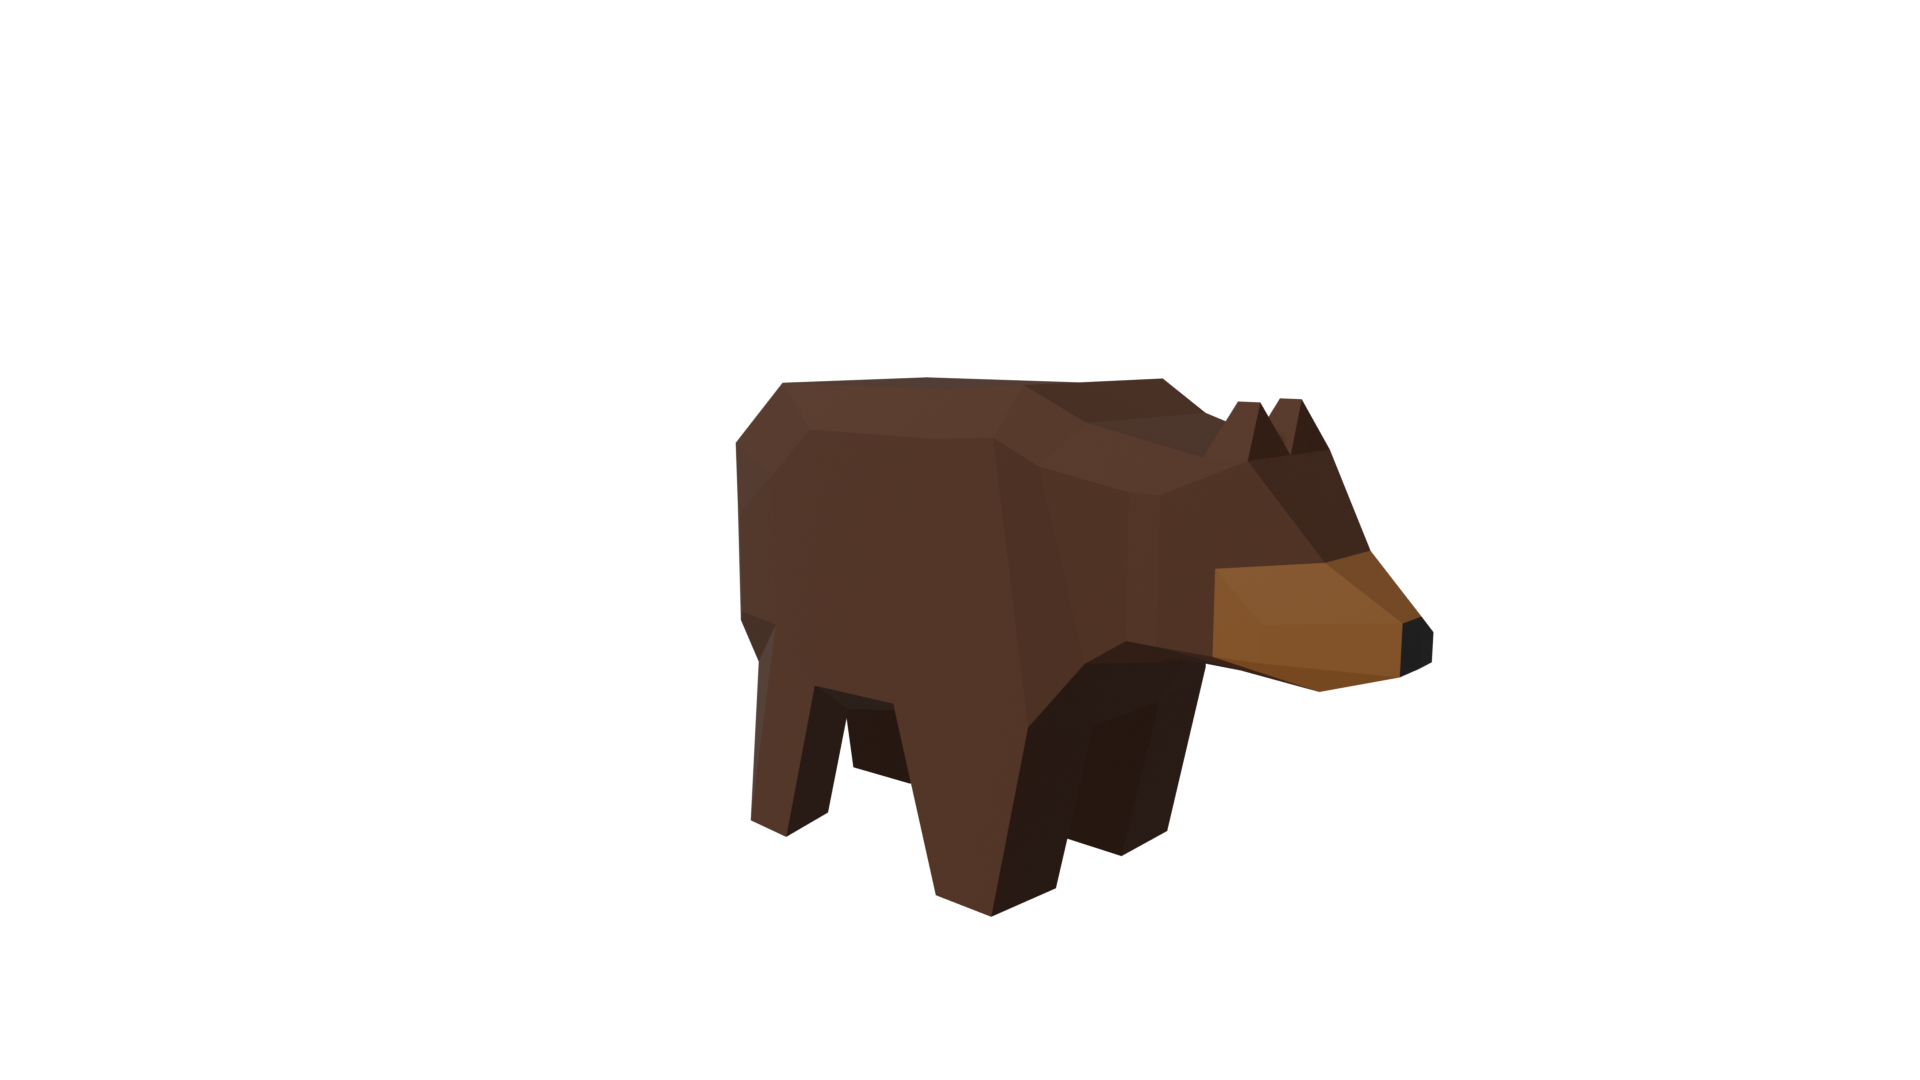
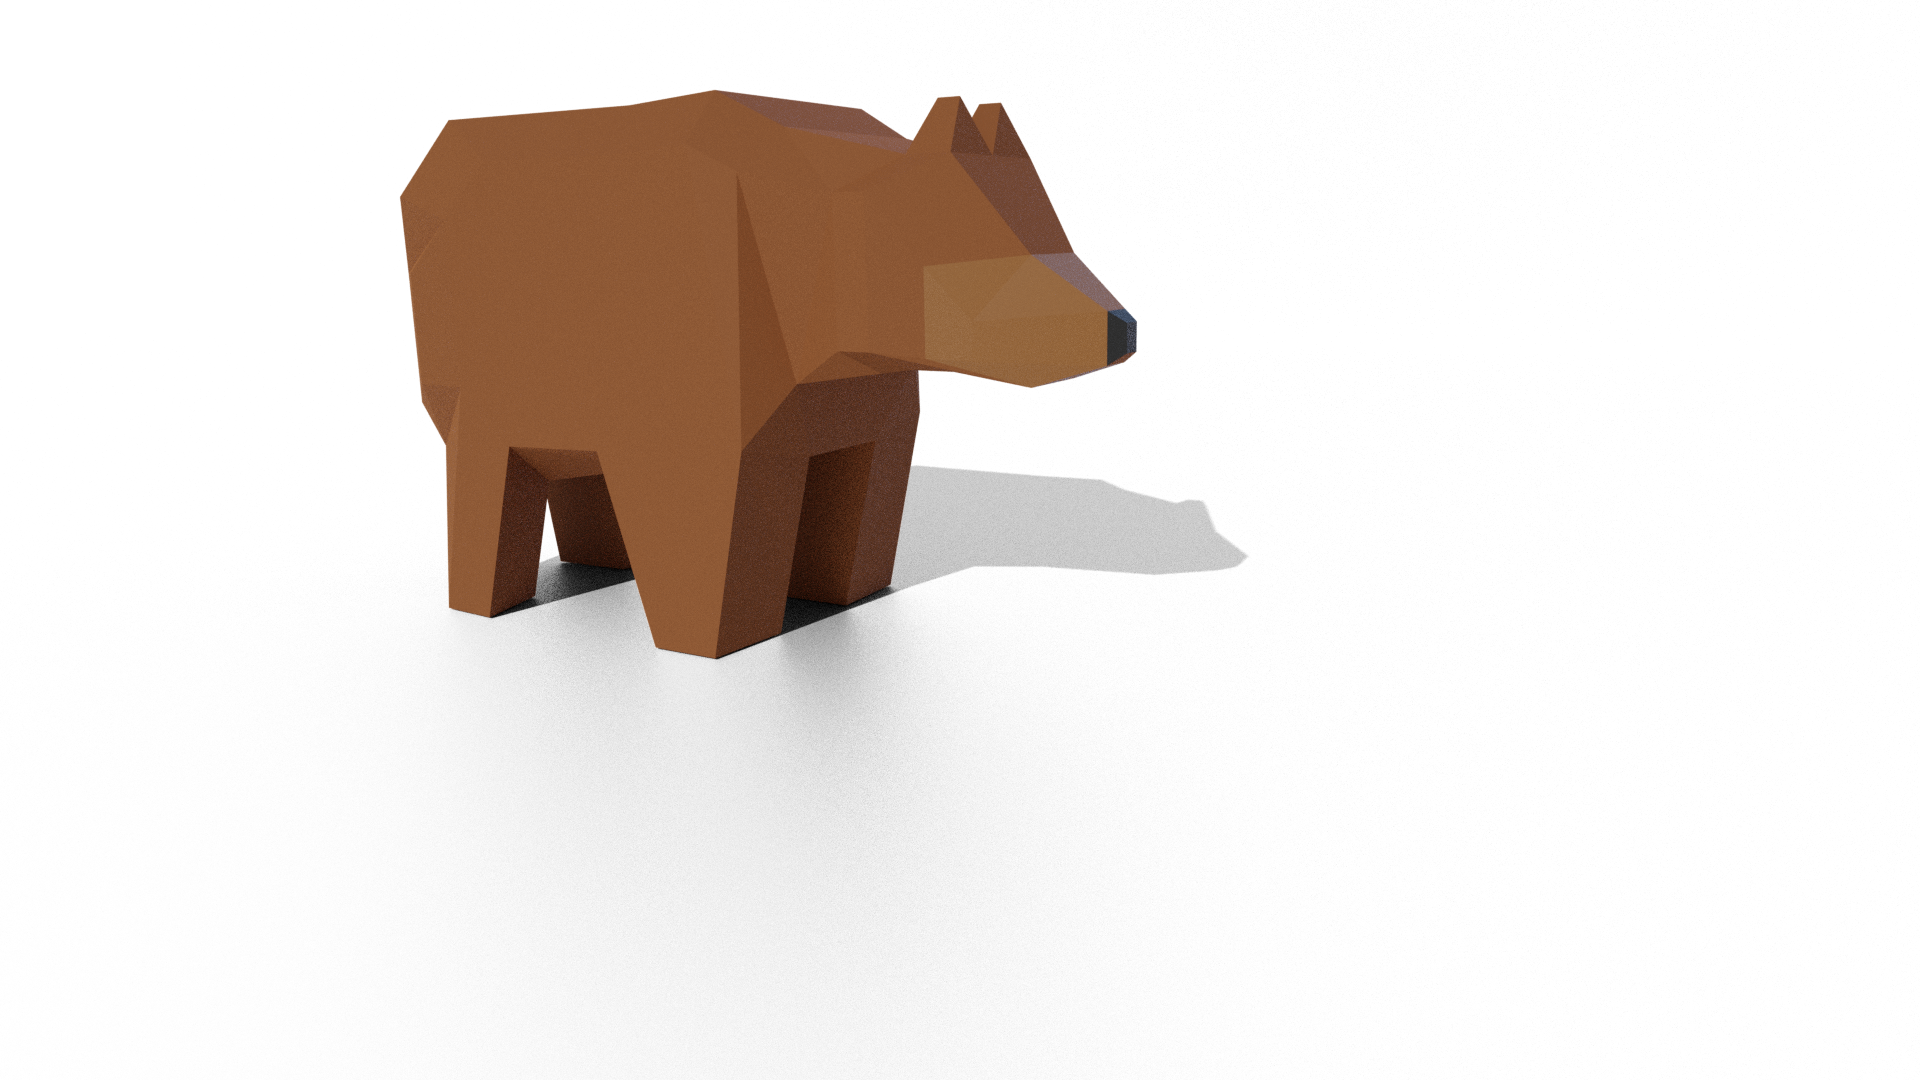
added bear shadow render, realigned, added basic dropdown

Changed region(s): [[0.1875, 0.0611, 0.75, 0.8556]]

diff --git a/theme.css b/theme.css
@@ -56,39 +56,12 @@
 
         .bear {
             text-align: right;
-            /* filter: drop-shadow(0px 100px 10px rgb(0,0,0,.5)); */
+            padding-top: 7rem;
+            padding-right: 3%;
+            margin-bottom: -12%;
             position: relative;
-            /* display: inline-block; */
-            /* margin-left: 75%; */
-          }
-        .bear:after {
-            /* text-align: right; */
-            content: "";
-            position: absolute;
-            /* z-index: ; */
-            /* bottom: 0; */
-            /* left: 50%; */
-            height: 15%;                    /*% height of photo*/
-            width: 20%;                     /*%width of photo*/
-            /* box-shadow: 50px -50px -100px 0 rgba(0,0,0, 0.25); */
-            transform: skewY(30deg);
-            inset: 50%;
-            /* border-radius: inherit; */
-            background: black;
-            z-index: -1;
-            transform: translateY(80%) rotateZ(17deg);                
-            filter: blur(15px);
-            opacity: 0.5;
           }
 
-
-        /* .shadow {
-            left: 50%;
-            width: 160px;
-            height: 80px;
-            background: rgba(0,0,0, 0.25);
-            border-radius: 50%;
-          } */
 
 
 /*header and footer*/
@@ -112,9 +85,9 @@
             text-decoration: none;
             font-size: 15px;}
 
-        .navbar a:hover {                           /* Change the color of links on hover */
+        /* .navbar a:hover {                           Change the color of links on hover
             background-color: var(--color2);
-            color: black;}
+            color: black;} */
 
         .navbar a.active {                           /* Add a color to the active/current link */
             background-color: #04AA6D;
@@ -146,12 +119,45 @@
             transition: ease .5s;                   /*transition between regular and navbar_light*/
             -webkit-transition: ease .5s;
             text-align: left;}
+
+        .dropbtn {
+            color: white;
+            border: none;
+            }
+            
+        .dropdown {
+            position: relative;
+            display: inline-block;
+            }
+            
+        .dropdown-content {
+            display: none;
+            position: absolute;
+            background-color: #f1f1f1;
+            min-width: 160px;
+            box-shadow: 0px 8px 16px 0px rgba(0,0,0,0.2);
+            z-index: 1;
+            }
+            
+        .dropdown-content a {
+            color: black;
+            padding: 12px 16px;
+            text-decoration: none;
+            display: block;
+            font-family: fallback, sans-serif;
+            }
+            
+        /* .dropdown-content a:hover {background-color: #ddd;} */
+            
+        .dropdown:hover .dropdown-content {display: block;}
+            
+        /* .dropdown:hover .dropbtn {background-color: #3e8e41;} */
         
 
 /*landing animation*/    
         @keyframes heading{
-            0% {top: -300px;}
-            100% {top: 0px;}
+            0% {top: -800px;}
+            100% {top: -300px;}
             }
 
         #showcase h1{
@@ -192,7 +198,7 @@
             background-repeat:space; 
             -webkit-background-clip: text; 
             -webkit-text-fill-color: transparent;
-            margin-bottom:-150px; 
+            margin-bottom:-400px; 
             font-size: 1150%;             text-align: laft; 
             font-family: fallback, sans-serif;
             font-weight: 700; 

diff --git a/index.html b/index.html
@@ -18,32 +18,20 @@
             });
         </script>
     </head>
-    <link rel="preload" href="/home-compost-capsule/assets/fonts/MessinaSans-Regular-7f8505d976621822a9985b8728d5dbdc.otf" as="font" crossorigin="anonymous">
-    <table>
-        <tr>
-            <td width="550px">
-                <div id="showcase" style="padding-left:10%">                                                     <!--landing animation-->
-                    <h1>Ted&nbsp;&nbsp;&nbsp;</h1>
-                    <h2>&nbsp;&nbsp;&nbsp;Yee</h2>
-                </div>
-            </td>
-            <td>
-                <br>
-                <div class="bear">
-                    <img src="static/bear.png" style="width:75%;">
-                </div>
-                <div class="shadow"></div>
-                <div class="a"> Here's a bear I made. What a good boy^</div>
-            </td>
-        </tr>
-    </table>
+
+    <div class="bear">
+        <img src="static/bear-cropped.png" style="width:25%;">
+    </div>
+    <div style="font-family:'Arial Narrow Bold', sans-serif; color: #7f7f7f; text-align:right;">Here's a bear I made. What a good boy</div>
+    <div id="showcase" style="padding-left:10%; width:fit-content">                                                     <!--landing animation-->
+        <h1>Ted&nbsp;&nbsp;&nbsp;</h1>
+        <h2>&nbsp;&nbsp;&nbsp;Yee</h2>
+    </div>
     
 
-
-
-    <body style="background: linear-gradient(60deg, #000000, #152540);">
+    <body style="background: linear-gradient(60deg, #000000, #152540); margin:0px; padding:0px">
         <div class="a">                                                      <!--This div uses style a to adds outer padding to everything-->
-            <h1 style=text-align:center>Please pardon my main site's appearance, it's a work in progress</h1>
+            <h1 style=text-align:center>Welcome to my site. It's a work in progress, so please excuse any construction noises.</h1>
             <br><br>
             <a href="https://www.linkedin.com/in/ted-yee">My LinkedIn</a>
             <br><br>
@@ -57,7 +45,7 @@
             Note: all code for these is stored in one mega repository called websites with subfolder for each project
             <br><br><br><br>
 
-            <h1 style=text-align:center>Here's Websites I've Built from scratch (HTML, CSS, Java mostly):</h1>
+            <h1 style=text-align:center></h1>
             <table>
                 <tr>
                     <td>

diff --git a/header.html b/header.html
@@ -1,9 +1,27 @@
 <html>
     <head>
-        <div class="navbar" style="border:#ebebeb">                                                                    <!--Top Navigation Bar-->
-            <a href="https://tedyee114.github.io/websites/">
-                <b style="text-align:left; font-family:helvetica; font-weight:lighter; font-size: 2rem;color:#dddddd"> <img src="https://raw.githubusercontent.com/tedyee114/websites/main/tyicon-transparent.png" width="18rem">&nbsp;TED YEE</b>
-            </a>
-        </div>
+        <table>
+            <tr>
+                <td>
+                    <div class="navbar" style="border:#ebebeb">                                                                    <!--Top Navigation Bar-->
+                        <a href="https://tedyee114.github.io/websites/" style="text-align:left; font-family: fallback, sans-serif;; font-weight:lighter; font-size: 2rem;color:#dddddd">
+                            <img src="https://raw.githubusercontent.com/tedyee114/websites/main/tyicon-transparent.png" width="18rem">&nbsp;Ted Yee
+                        </a>         
+                    </div>
+                </td>
+                <td width="5%">
+                    <div class="dropdown">
+                        <button class="dropbtn"><img src="/static/dropdown.png" width="50px"></button>
+                        <div class="dropdown-content">
+                          <a href="https://tedyee114.github.io/websites/">Link 1</a>
+                          <a href="https://tedyee114.github.io/websites/">Link 2</a>
+                          <a href="https://tedyee114.github.io/websites/">Link 3</a>
+                        </div>
+                      </div>
+                </td>
+            </tr>
+        </table>
+        
+        
     </head>
 </html>
